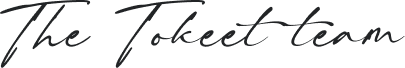
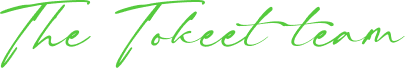
Update mobile responsive

Changed region(s): [[0.2667, 0.0, 1.0, 1.0], [0.0, 0.0, 0.237, 1.0], [0.6519, 0.5294, 0.6815, 0.5882]]

diff --git a/index.html b/index.html
@@ -55,12 +55,25 @@
 
             .mobile-font-size-18 {
                 font-size: 18px !important;
+                line-height: 28px !important;
             }
 
-            .mobile-font-size-16 {
-                font-size: 16px !important;
+            .mobile-banner-padding {
+                padding: 0px 0px 20px 0px !important;
             }
-            
+
+            .mobile-section-padding {
+                padding: 0px 34px 20px 34px !important;
+            }
+
+            .mobile-work-btn-padding {
+                padding: 30px 0px !important;
+            }
+
+            h1 {
+                line-height: 46px !important;
+                font-size: 32px !important;
+            }
         }
 
     </style>
@@ -134,7 +147,7 @@
 
                     <!-- Main Feature Graphic Section -->
                     <tr>
-                        <td style="padding: 14px 40px 20px 40px;">
+                        <td class="mobile-banner-padding" style="padding: 14px 40px 20px 40px;">
                             <img src="https://advance-cm-first-template.netlify.app/images/first-banner.png" alt="Feature Graphic" width="520" height="312"
                                 
                                 style="display: block; max-width: 100%; height: auto; margin: 0 auto;">
@@ -143,7 +156,7 @@
 
                     <!-- Guest Autopilot Wizard Section -->
                     <tr>
-                        <td style="padding: 0 54px 20px 54px; font-size: 18px;">
+                        <td class="mobile-section-padding" style="padding: 0 54px 20px 54px; font-size: 18px;">
                             <h1
                                 style="margin: 0 0 20px 0; font-size: 37px; font-weight: 600; color: #222426; line-height: 50px;">
                                 Two powerful updates to <span style="color: #55CA3D;">save you time</span> & boost guest
@@ -166,7 +179,7 @@
                                 style="margin: 0 0 25px 0; color: #475059; line-height: 29px; padding-top: 10px; font-weight: 500;">
                                 Keep your communication consistent and your team aligned.
                             </p>
-                            <p style="padding: 58px 0px;">
+                            <p class="mobile-work-btn-padding" style="padding: 58px 0px;">
                                 <a href="#"
                                     style="border: 1px solid #7E7E7E; border-radius: 40px; padding: 11px 43px; color: #475059; text-decoration: none; font-size: 18px; font-weight: 700; ">Learn
                                     how it works</a>
@@ -176,7 +189,7 @@
 
                     <!-- Airbnb Host Reservation Alteration Section -->
                     <tr>
-                        <td style="padding: 0 54px 40px 54px;">
+                        <td class="mobile-section-padding" style="padding: 0 54px 40px 54px;">
                             <h2
                                 style="margin: 0 0 15px 0; font-size: 37px; font-weight: 600; line-height: 50px; color: #222426;">
                                 Airbnb Host <span style="color: #55CA3D;">Reservation</span> Alteration
@@ -208,7 +221,7 @@
 
                     <!-- Call to Action Section -->
                     <tr>
-                        <td style="padding: 0 54px 50px 54px;">
+                        <td class="mobile-section-padding" style="padding: 0 54px 50px 54px;">
                             <p
                                 style="margin: 0 0 20px 0; font-size: 18px; color: #272727; line-height: 33px; font-weight: 500;">
                                 Start using these features today and streamline your property management like never
@@ -238,11 +251,11 @@
 
                     <!-- Footer Section -->
                     <tr>
-                        <td style="padding: 0 54px 40px 54px; text-align: center;">
+                        <td class="mobile-section-padding" style="padding: 0 54px 40px 54px; text-align: center;">
                             <p
                                 style="margin: 0 0 10px 0; font-size: 16px; color: #475059; font-weight: 500;">Best
                                 regards,</p>
-                            <img  src="https://advance-cm-first-template.netlify.app/images/signature-white.png" alt="The Tokeet team signature"
+                            <img src="https://advance-cm-first-template.netlify.app/images/signature.png" alt="The Tokeet team signature"
                                 style="padding-top: 18px; padding-bottom: 8px; ">
                         </td>
                     </tr>
@@ -253,7 +266,7 @@
                     style="max-width: 640px; width: 100%;">
                     <tr>
                         <td class="mobile-padding">
-                            <p
+                            <p class="mobile-font-size-18"
                                 style="padding-top: 18px; padding-bottom: 12px; margin: 0px; font-size: 16px; color: #627A8B; text-align: left;">
                                 2025 Tokeet. All rights reserved. <span style="padding: 0px 10px;">|</span> 21 Pine
                                 Road, Bellevelle, St. Michaels BB11113
